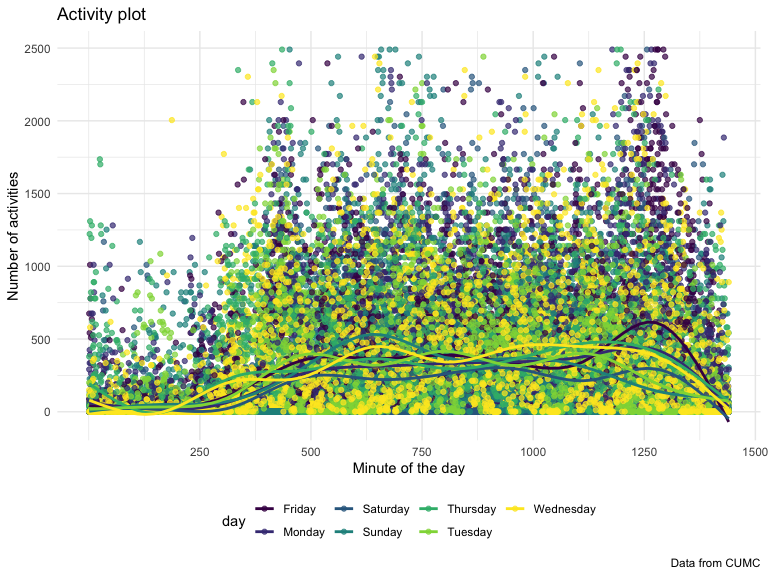
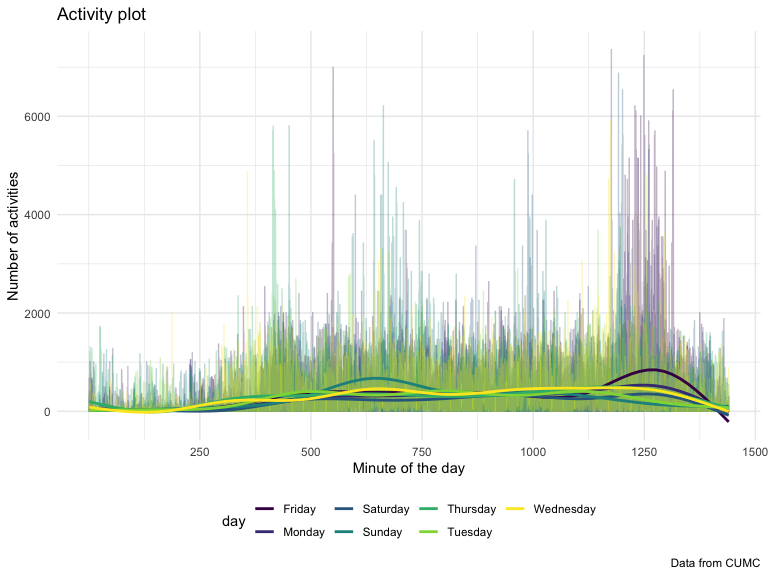
Problem 3-- plots for tmax vs tmin and snowfall over years

diff --git a/p8105_hw3_mff2137.md b/p8105_hw3_mff2137.md
@@ -182,9 +182,9 @@ courses for each day using color to indicate day of the week.
 
 ``` r
 accel %>% 
-    filter(n_activities < 2500) %>%
+    filter(n_activities < 7500) %>%
     ggplot(aes(x = minute, y = n_activities, color = day)) + 
-    geom_point(alpha = .7) +
+    geom_line(alpha = .3) +
     geom_smooth(se = FALSE) +
     labs(
     title = "Activity plot",
@@ -336,3 +336,37 @@ between -10 and 10 C in January. Some January outliers include years
 fluctuations were observed across years as well but generally remained
 between 20 and 32 C. July outliers include 1984 (just below 20 C), 1988
 (below 15 C), 2020 (just below 35 C).
+
+## Other plots
+
+`tmax` vs `tmin` and snowfall distribution
+
+``` r
+temp_max_min <-
+    noaa_tidy %>% 
+    select(id, year, tmax, tmin) %>% 
+    drop_na() %>% 
+    pivot_longer(
+        tmax:tmin,
+        names_to = "observation",
+        values_to = "temp") %>% 
+    ggplot(aes(x = observation, y = temp)) +
+    geom_boxplot() +
+    theme(legend.position = "none")
+
+snowfall_plot <-
+    noaa_tidy %>% 
+    select (id, year, snow) %>% 
+    drop_na() %>% 
+    filter(snow > 0, snow < 100) %>% 
+    ggplot(aes(x = snow, y = year)) +
+    geom_count() +
+     scale_y_continuous(
+        breaks = c(1980, 1982, 1984, 1986, 1988, 1990,1992, 1994, 1996, 1998, 2000,
+               2002, 2004, 2006, 2008, 2010)) +
+    theme(legend.position = "none")
+
+(temp_max_min + snowfall_plot)
+```
+
+<img src="p8105_hw3_mff2137_files/figure-gfm/unnamed-chunk-14-1.png" width="90%" />
